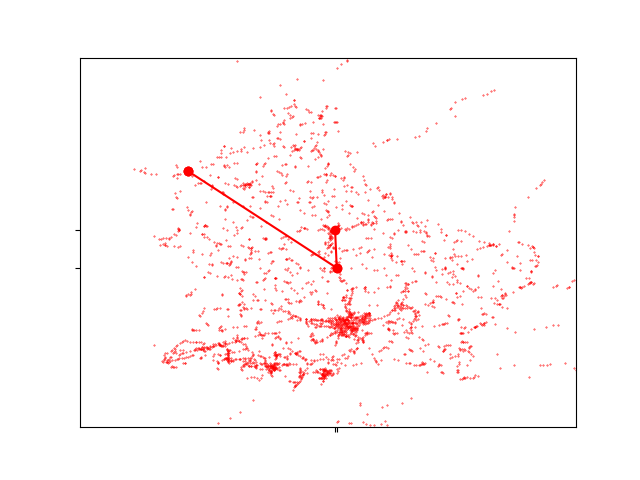
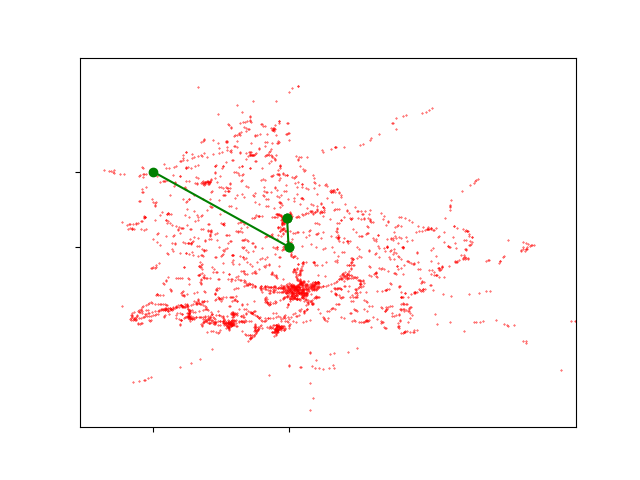
orari corretti e grafi aggiornati

diff --git a/Lab2/Main.py b/Lab2/Main.py
@@ -41,8 +41,8 @@ def main():
             count += 1
             line = f.readline()
 
-    for i in graph.nodes_list:
-        print(i.id, i.posX, i.posY)
+    #for i in graph.nodes_list:
+    #    print(i.id, i.posX, i.posY)
 
 
 
@@ -137,41 +137,49 @@ def main():
             if i == 0:
                 pass
             else:
-                if onlyOneLine(previous_path[i-1:], run_id_list, num_time):
-                    print("NuOVO")
-                    print(time_departures[val][1:3]+":" + time_departures[val][3:] + ": corsa", run_id_list[val], " ",
-                          line_id_list[val], "da", number_to_id[j], "a", number_to_id[previous_path[-1]])
-                    num_time += 1
+                if num_time == 1:
+                    break
                 else:
-                    if num_time == 1:
-                        pass
-                    else:
-                        #1 caso: corse diverse
-                        if run_id_list[val] != run_id_list[previous_path[i-1]] and not same_run:
-                            print("UNO!")
+                    #1 caso: corse diverse
+                    if run_id_list[val] != run_id_list[previous_path[i-1]] and not same_run:
+                        #print("UNO!")
+                        if not onlyOneLine(previous_path[i:], run_id_list, num_time):
                             print(time_departures[val][1:3] + ":" + time_departures[val][3:] +": corsa", run_id_list[val], " ",
-                                  line_id_list[val], "da", number_to_id[j], "a", number_to_id[val])
+                                    line_id_list[val], "da", number_to_id[j], "a", number_to_id[val])
                             j = val
 
 
-                        #2 caso: la corsa successiva è sulla stessa linea e la precedente è su un'altra linea
-                        if run_id_list[val] == run_id_list[previous_path[i-1]] and not same_run:
-                                same_run = True
-                                id_repeated_dep = number_to_id[j]
-                                time_repeated_dep = time_departures[val]
-                                j = val
-                                print("DUE")
+                    #2 caso: la corsa successiva è sulla stessa linea e la precedente è su un'altra linea
+                    if run_id_list[val] == run_id_list[previous_path[i-1]] and not same_run:
+                            same_run = True
+                            id_repeated_dep = number_to_id[j]
+                            time_repeated_dep = time_departures[val]
+                            j = val
+                            #print("DUE")
 
-                        # 3 caso
-                        if run_id_list[val] != run_id_list[previous_path[i-1]] and same_run:
-                            same_run = False
-                            print("TRE!!!")
-                            print(time_repeated_dep[1:3] + ":" + time_repeated_dep[3:] + ": corsa", run_id_list[val],
+                    if onlyOneLine(previous_path[i:], run_id_list, num_time):
+                        #print("NuOVO")
+                        if same_run:
+                            print(time_departures[val][1:3] + ":" + time_departures[val][3:] + ": corsa",
+                                  run_id_list[val], " ",
+                                  line_id_list[val], "da", id_repeated_dep, "a", number_to_id[previous_path[-1]])
+                        else:
+                            print(time_departures[val][1:3] + ":" + time_departures[val][3:] + ": corsa",
+                                  run_id_list[val], " ",
+                                  line_id_list[val], "da", number_to_id[j], "a", number_to_id[previous_path[-1]])
+                        num_time += 1
+                        break
+
+                    # 3 caso
+                    if run_id_list[val] != run_id_list[previous_path[i-1]] and same_run:
+                        same_run = False
+                        #print("TRE!!!")
+                        print(time_repeated_dep[1:3] + ":" + time_repeated_dep[3:] + ": corsa", run_id_list[val],
                                   " ", line_id_list[val], "da", id_repeated_dep, "a", number_to_id[val])
-                            j = val
+                        j = val
 
 
-                print("CICLATO")
+                #print("CICLATO")
     #for i in previous_path:
     #    print(run_id_list[i])
 
@@ -210,7 +218,7 @@ def plotPath(previous_path, graph):
             x2, y2 = graph.nodes_list[j].posX/6, graph.nodes_list[j].posY/49.5
             plt.xticks([x1, x2], "" )
             plt.yticks([y1, y2], "")
-            plt.plot([x1, x2], [y1, y2], 'ro-')
+            plt.plot([x1, x2], [y1, y2], 'go-')
             j = val
     plt.show()
 
